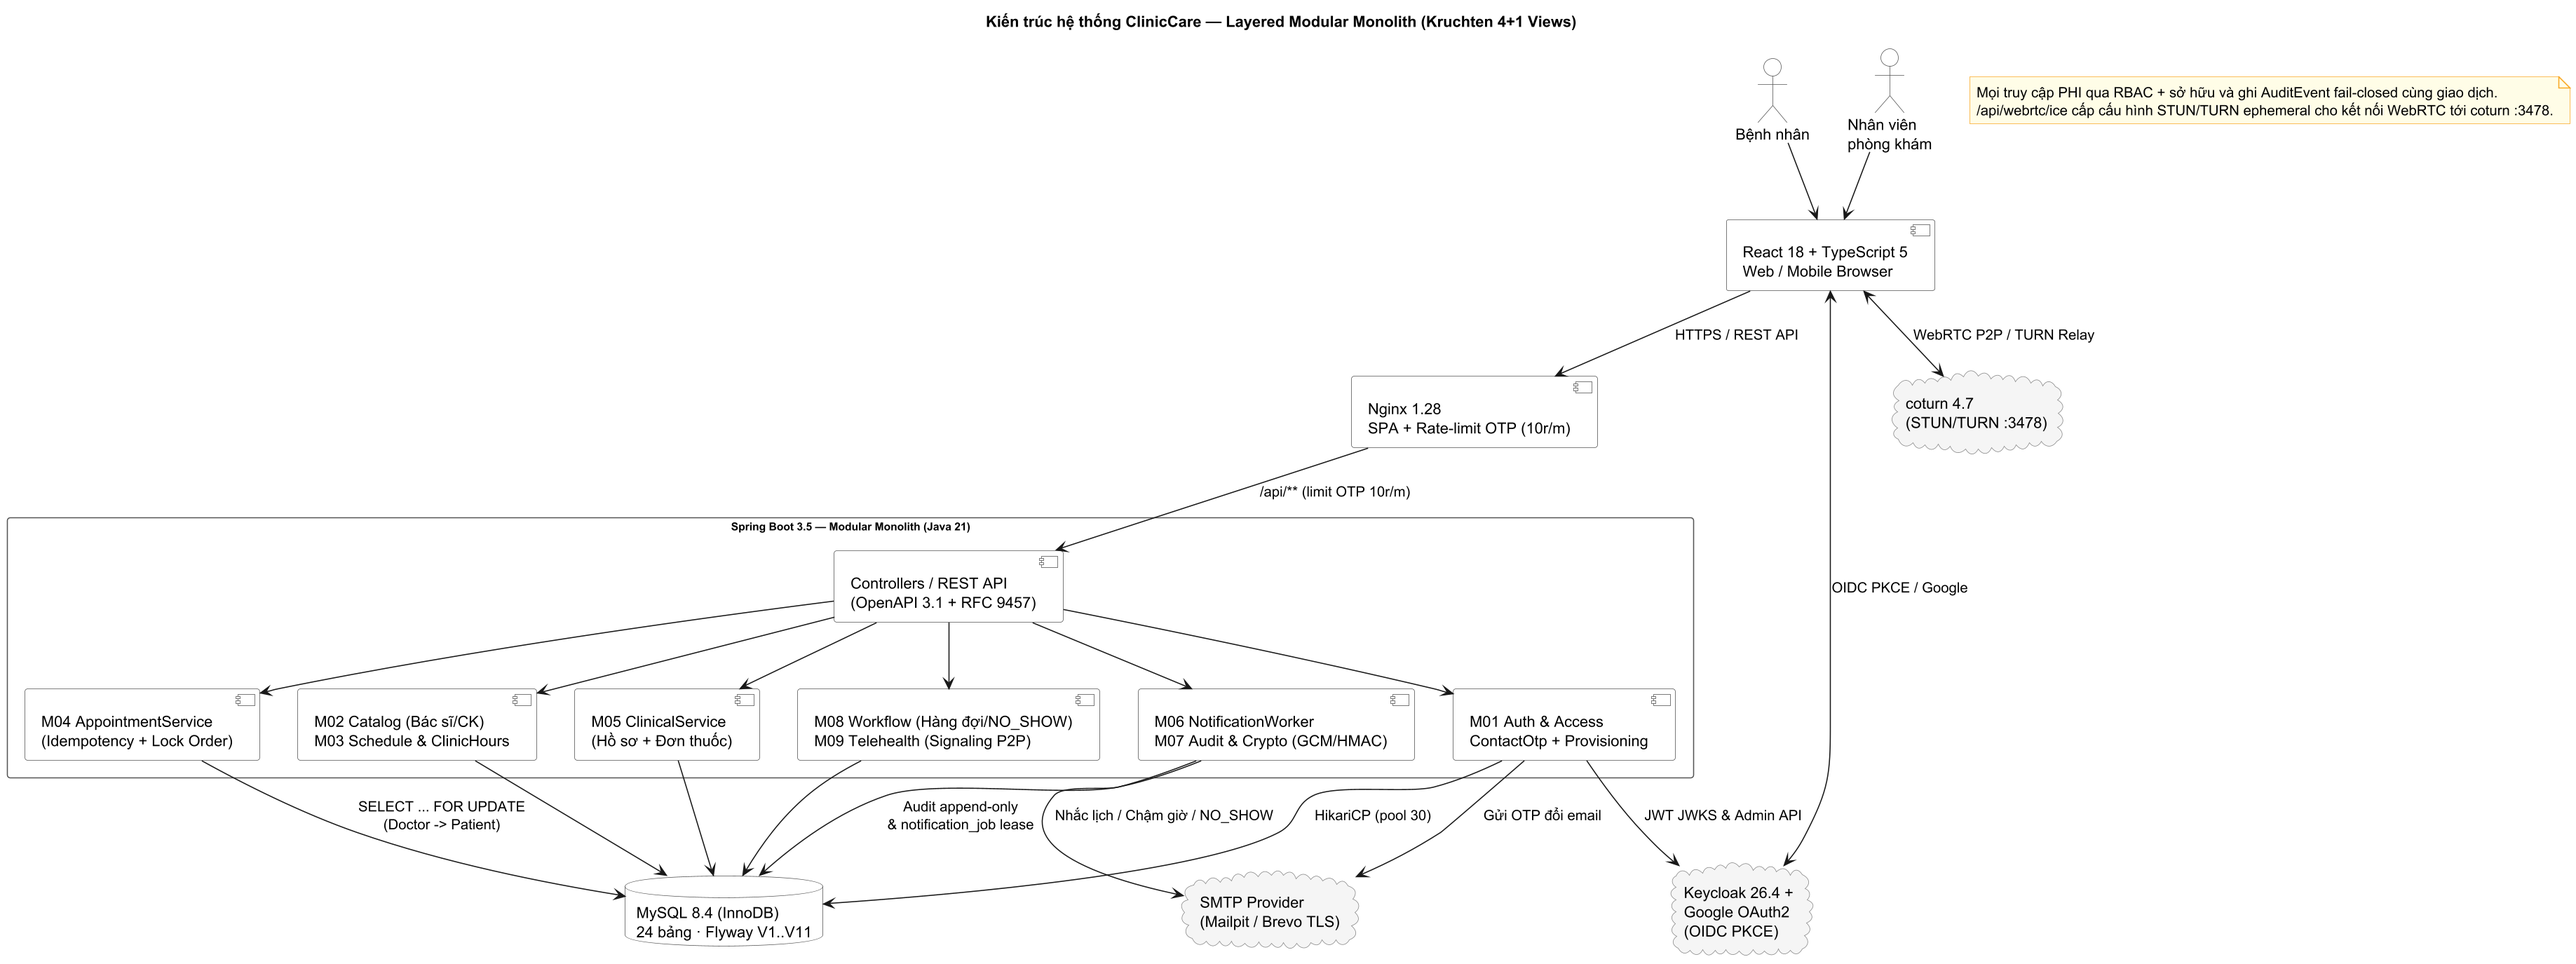
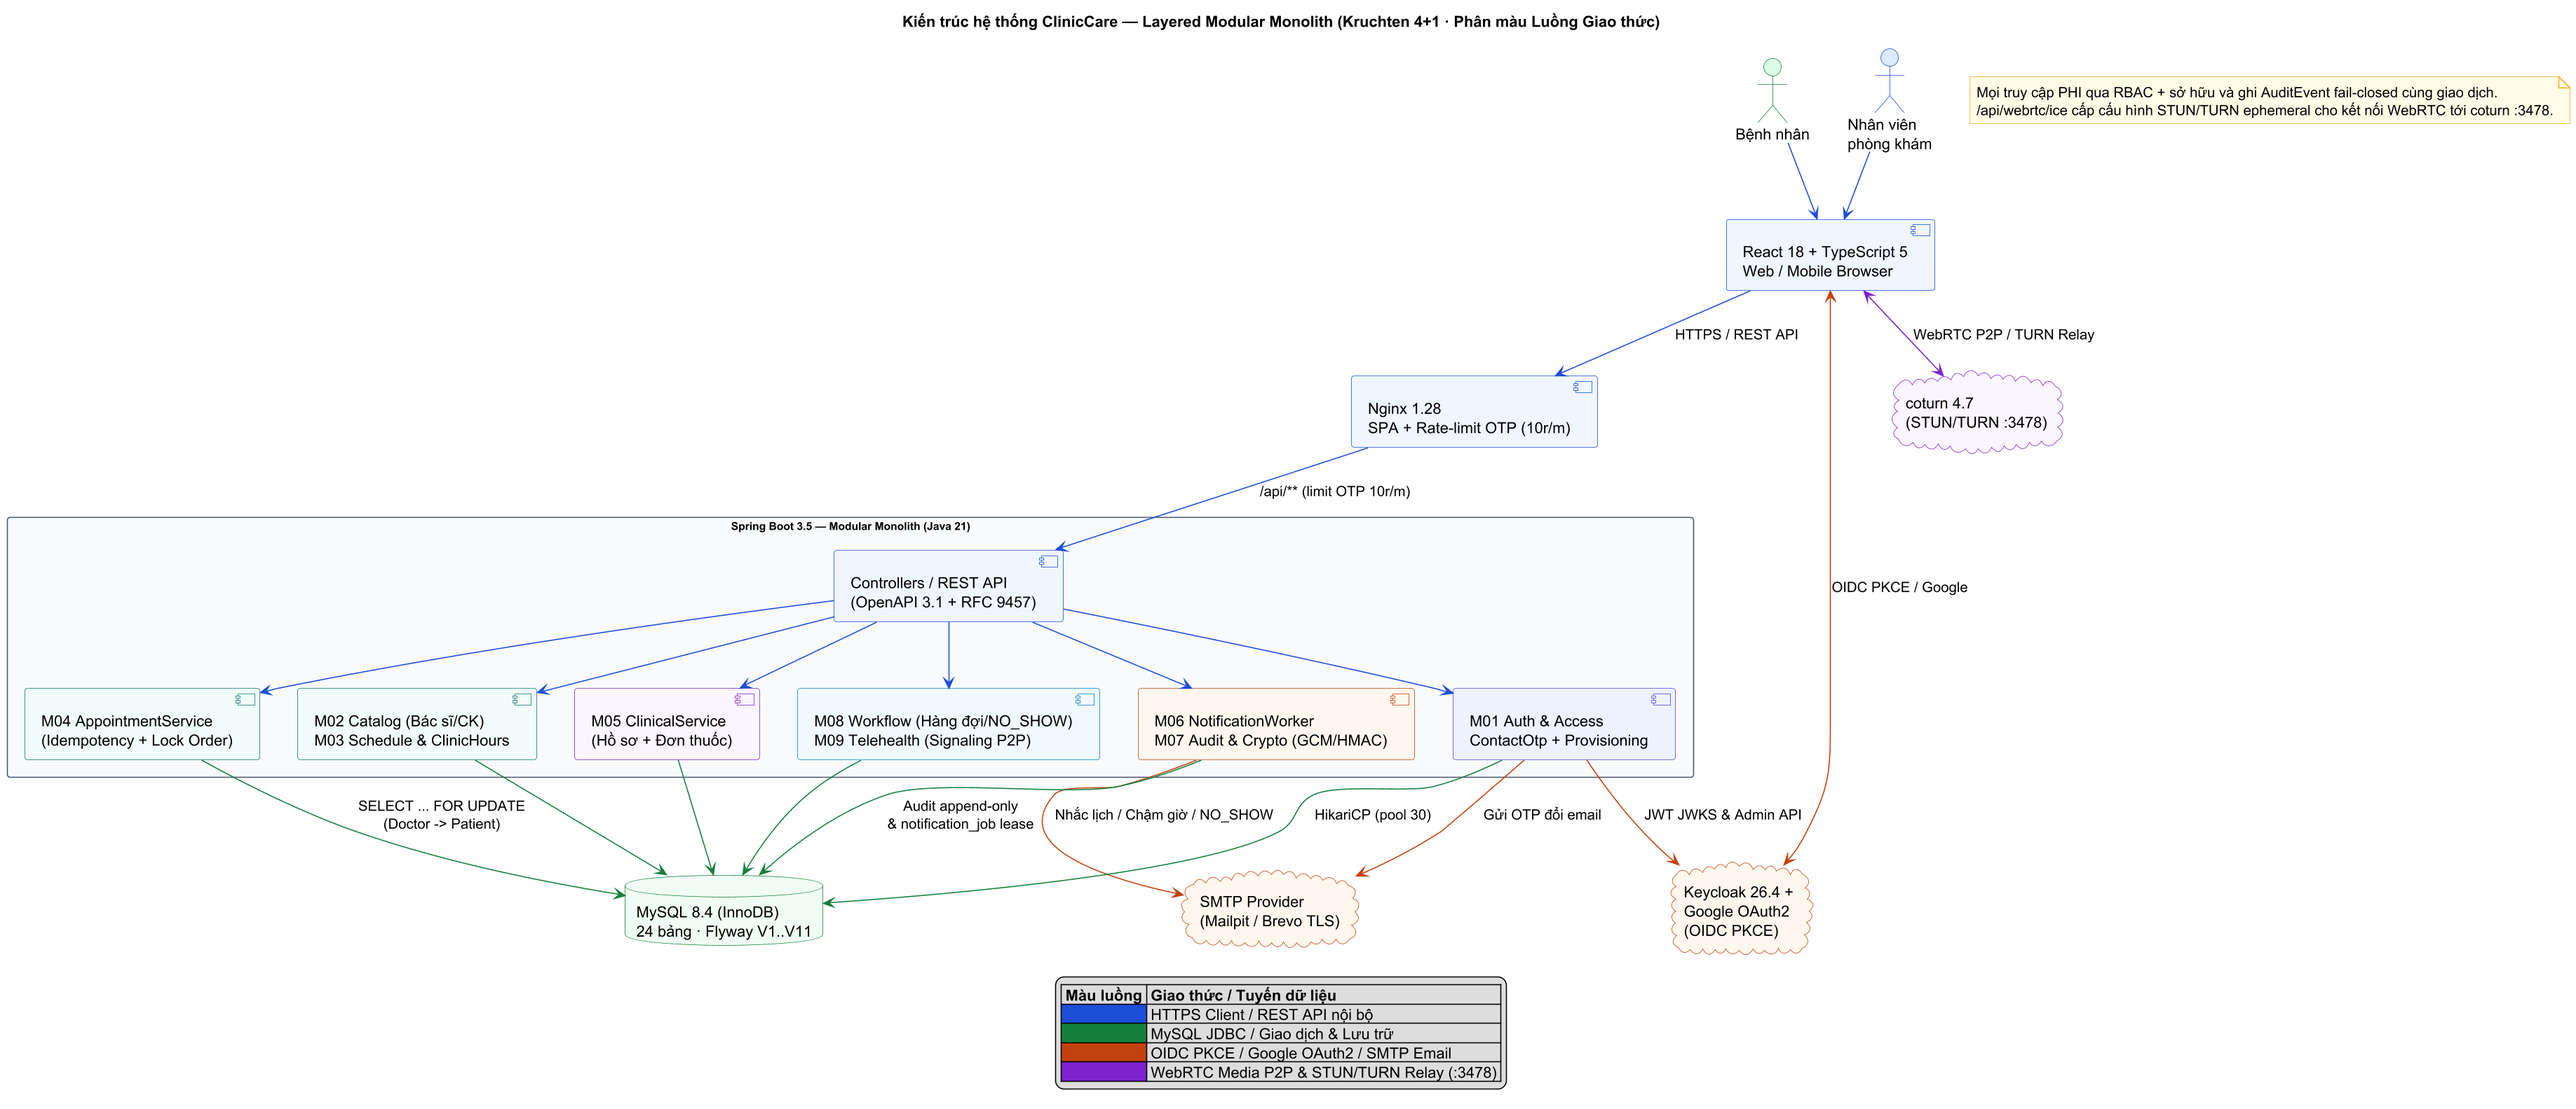
Dong bo 13 so do chuan hoa mau sac UML 2.5 va ERD len trang dac ta

diff --git a/sections/overview.js b/sections/overview.js
@@ -1,8 +1,8 @@
-/* sections/overview.js — Tổng quan hệ thống, Chuẩn áp dụng & Phân hệ M01-M09 (đồng bộ SE-project-main@d0f7189, 22/11/2026) */
+/* sections/overview.js — Tổng quan hệ thống, Chuẩn áp dụng & Phân hệ M01-M09 (đồng bộ SE-project-main@327a553, 22/11/2026) */
 
 window.SECTION_OVERVIEW = `
 <section class="section" id="overview">
-  <div class="sh"><span class="sh-ic">📌</span><div class="sh-txt"><h2>Tổng quan hệ thống</h2><p>ClinicCare — hệ thống quản lý phòng khám ngoại trú tích hợp khám từ xa WebRTC (đồng bộ mã nguồn <code>main@d0f7189</code> · 22/11/2026)</p></div></div>
+  <div class="sh"><span class="sh-ic">📌</span><div class="sh-txt"><h2>Tổng quan hệ thống</h2><p>ClinicCare — hệ thống quản lý phòng khám ngoại trú tích hợp khám từ xa WebRTC (đồng bộ mã nguồn <code>main@327a553</code> · 22/11/2026)</p></div></div>
 
   <div class="sum-bar">
     <div class="sum-item"><div class="n">9</div><div class="l">Phân hệ (M01–M09)</div></div>
@@ -20,7 +20,7 @@ window.SECTION_OVERVIEW = `
     <div class="ov-card"><h4>Xác thực &amp; IdP</h4><p>Keycloak 26.4 (OIDC Authorization Code + PKCE S256) · Google OAuth2 · Quên mật khẩu SMTP · Khóa tạm 5 lần sai · OTP email 6 chữ số</p></div>
     <div class="ov-card"><h4>Hạ tầng &amp; Vận hành</h4><p>Azure VM HTTPS (Caddy 2 + Nginx 1.28 rate-limit OTP 10r/m + coturn TURN 3478) · CI 5 job + rollback tự động + <code>post-deploy-smoke</code></p></div>
     <div class="ov-card"><h4>Kiểm thử tự động</h4><p>86 test Backend (Testcontainers MySQL + <code>jacoco:check</code> &ge;60%) · 79 Vitest (22 file) · 17 Playwright · Python unittest · k6 50 VU</p></div>
-    <div class="ov-card"><h4>Phiên bản đối chiếu</h4><p>Nhánh <code>main@d0f7189</code> · 22/11/2026 · Demo HTTPS: <code>cliniccare-demo.duckdns.org</code> &amp; <code>cliniccare-auth.duckdns.org</code></p></div>
+    <div class="ov-card"><h4>Phiên bản đối chiếu</h4><p>Nhánh <code>main@327a553</code> · 22/11/2026 · Demo HTTPS: <code>cliniccare-demo.duckdns.org</code> &amp; <code>cliniccare-auth.duckdns.org</code></p></div>
   </div>
 
   <div class="stack-grid">

diff --git a/sections/diagrams.js b/sections/diagrams.js
@@ -1,11 +1,11 @@
-/* sections/diagrams.js — 38 sơ đồ OMG UML 2.5, Kruchten 4+1 & ERD (đồng bộ 100% SE-project-main@d0f7189, 22/11/2026) */
+/* sections/diagrams.js — 38 sơ đồ OMG UML 2.5, Kruchten 4+1 & ERD (đồng bộ 100% SE-project-main@327a553, 22/11/2026) */
 /* Toàn bộ ảnh PNG phản chiếu trực tiếp từ SE-project-main/docs/design/ ở 150 DPI */
 
 window.SECTION_DIAGRAMS = `
 <section class="section" id="uc-diag">
   <div class="alert alert-info" style="margin-bottom:18px">
     <span>📐</span>
-    <div><strong>Đồng bộ thiết kế 100% (<code>main@d0f7189</code>):</strong> Đầy đủ <strong>38 sơ đồ</strong> theo chuẩn <strong>OMG UML 2.5</strong>, mô hình kiến trúc <strong>Kruchten 4+1 Views</strong> và <strong>IE / Crow's Foot ERD</strong>, bao phủ toàn bộ <strong>9 phân hệ M01–M09</strong> (gồm các sơ đồ chuyên sâu <code>M02</code>, <code>M03</code>, <code>M07</code> và <code>CI/CD Auto-Rollback</code>), <strong>27 Use Case</strong>, <strong>24 bảng MySQL 8.4 (<code>V1..V11</code>)</strong> và hạ tầng triển khai Azure VM.</div>
+    <div><strong>Đồng bộ thiết kế 100% (<code>main@327a553</code>):</strong> Đầy đủ <strong>38 sơ đồ</strong> theo chuẩn <strong>OMG UML 2.5</strong>, mô hình kiến trúc <strong>Kruchten 4+1 Views</strong> và <strong>IE / Crow's Foot ERD</strong>, bao phủ toàn bộ <strong>9 phân hệ M01–M09</strong>, <strong>27 Use Case</strong>, <strong>24 bảng MySQL 8.4 (<code>V1..V11</code>)</strong> và hạ tầng Azure VM. Các sơ đồ nhiều đường nối (Use Case, Class, ERD, Kiến trúc/Triển khai) đã được <strong>phân màu theo Tác nhân / Miền / Tuyến giao thức kèm bảng chú giải Legend</strong> chuẩn OMG UML 2.5; nhấn nút <code>🔗 Copy link</code> trên từng sơ đồ để mở trực tiếp.</div>
   </div>
 
   <div class="sh"><span class="sh-ic">🗂</span><div class="sh-txt"><h2>Sơ đồ Use Case (5 sơ đồ)</h2><p>OMG UML 2.5 · Tổng quan 27 UC và 4 bản tách nhóm theo phân hệ <code>M01–M09</code> · Nhấn vào ảnh để phóng to</p></div></div>

diff --git a/sections/testing.js b/sections/testing.js
@@ -1,4 +1,4 @@
-/* sections/testing.js — Bảng PCL N/B/A, Agent Catalog, Benchmark NFR-01 & Ma trận truy vết (main@d0f7189, 22/11/2026) */
+/* sections/testing.js — Bảng PCL N/B/A, Agent Catalog, Benchmark NFR-01 & Ma trận truy vết (main@327a553, 22/11/2026) */
 
 window.SECTION_TESTING = `
 <section class="section" id="pcl">
@@ -93,7 +93,7 @@ window.SECTION_TESTING = `
 </section>
 
 <section class="section" id="trace">
-  <div class="sh"><span class="sh-ic">🔗</span><div class="sh-txt"><h2>Ma trận truy vết tổng hợp (27 FR &rarr; UC &rarr; NFR &rarr; Bằng chứng)</h2><p>Đối chiếu <code>docs/requirements/traceability-matrix.md</code> tại <code>main@d0f7189</code> · Xem chi tiết tra cứu tại trang <a href="requirements.html#review-matrix">Yêu cầu</a></p></div></div>
+  <div class="sh"><span class="sh-ic">🔗</span><div class="sh-txt"><h2>Ma trận truy vết tổng hợp (27 FR &rarr; UC &rarr; NFR &rarr; Bằng chứng)</h2><p>Đối chiếu <code>docs/requirements/traceability-matrix.md</code> tại <code>main@327a553</code> · Xem chi tiết tra cứu tại trang <a href="requirements.html#review-matrix">Yêu cầu</a></p></div></div>
   <div class="tbl-wrap">
     <table>
       <thead><tr><th>FR</th><th>UC</th><th>Thao tác API chính</th><th>NFR liên quan</th><th>Tình trạng &amp; Bằng chứng</th></tr></thead>

diff --git a/sections/requirements.js b/sections/requirements.js
@@ -1,8 +1,8 @@
-/* sections/requirements.js — Đồng bộ đầy đủ 27 FR (EARS), 16 NFR + Bằng chứng, 19 BR, Công thức lượng hóa & Ma trận rà soát (SE-project-main@d0f7189, 22/11/2026) */
+/* sections/requirements.js — Đồng bộ đầy đủ 27 FR (EARS), 16 NFR + Bằng chứng, 19 BR, Công thức lượng hóa & Ma trận rà soát (SE-project-main@327a553, 22/11/2026) */
 
 window.SECTION_REQUIREMENTS = `
 <section class="section" id="req-summary">
-  <div class="sh"><span class="sh-ic">📌</span><div class="sh-txt"><h2>Tổng hợp Đặc tả Yêu cầu &amp; Bằng chứng Nghiệm thu</h2><p>Đối chiếu đồng bộ 1:1 với kho mã nguồn <code>SE-project-main</code> (nhánh <code>main@d0f7189</code> · 22/11/2026)</p></div></div>
+  <div class="sh"><span class="sh-ic">📌</span><div class="sh-txt"><h2>Tổng hợp Đặc tả Yêu cầu &amp; Bằng chứng Nghiệm thu</h2><p>Đối chiếu đồng bộ 1:1 với kho mã nguồn <code>SE-project-main</code> (nhánh <code>main@327a553</code> · 22/11/2026)</p></div></div>
 
   <div class="alert alert-info" style="margin-bottom:14px">
     <span>📏</span>

diff --git a/sections/usecases.js b/sections/usecases.js
@@ -1,10 +1,10 @@
-/* sections/usecases.js — 27 Use Case (chuẩn Alistair Cockburn + OMG UML 2.5 · đồng bộ main@d0f7189, 22/11/2026) */
+/* sections/usecases.js — 27 Use Case (chuẩn Alistair Cockburn + OMG UML 2.5 · đồng bộ main@327a553, 22/11/2026) */
 
 window.SECTION_USECASES = `
 <section class="section" id="uc-list">
   <div class="sh"><span class="sh-ic">👥</span><div class="sh-txt">
     <h2>Danh sách 27 Use Case</h2>
-    <p>UC-01..UC-27 (<code>main@d0f7189</code>) · nhấn vào hàng để mở đặc tả đầy đủ · Sơ đồ UML tương ứng xem tại <a href="diagrams.html#uc-diag">Sơ đồ UML</a> &amp; <a href="requirements.html">Yêu cầu</a></p>
+    <p>UC-01..UC-27 (<code>main@327a553</code>) · nhấn vào hàng để mở đặc tả đầy đủ · Sơ đồ UML tương ứng xem tại <a href="diagrams.html#uc-diag">Sơ đồ UML</a> &amp; <a href="requirements.html">Yêu cầu</a></p>
   </div></div>
   <div class="alert alert-info" style="margin-bottom:12px">
     <span>📏</span>
